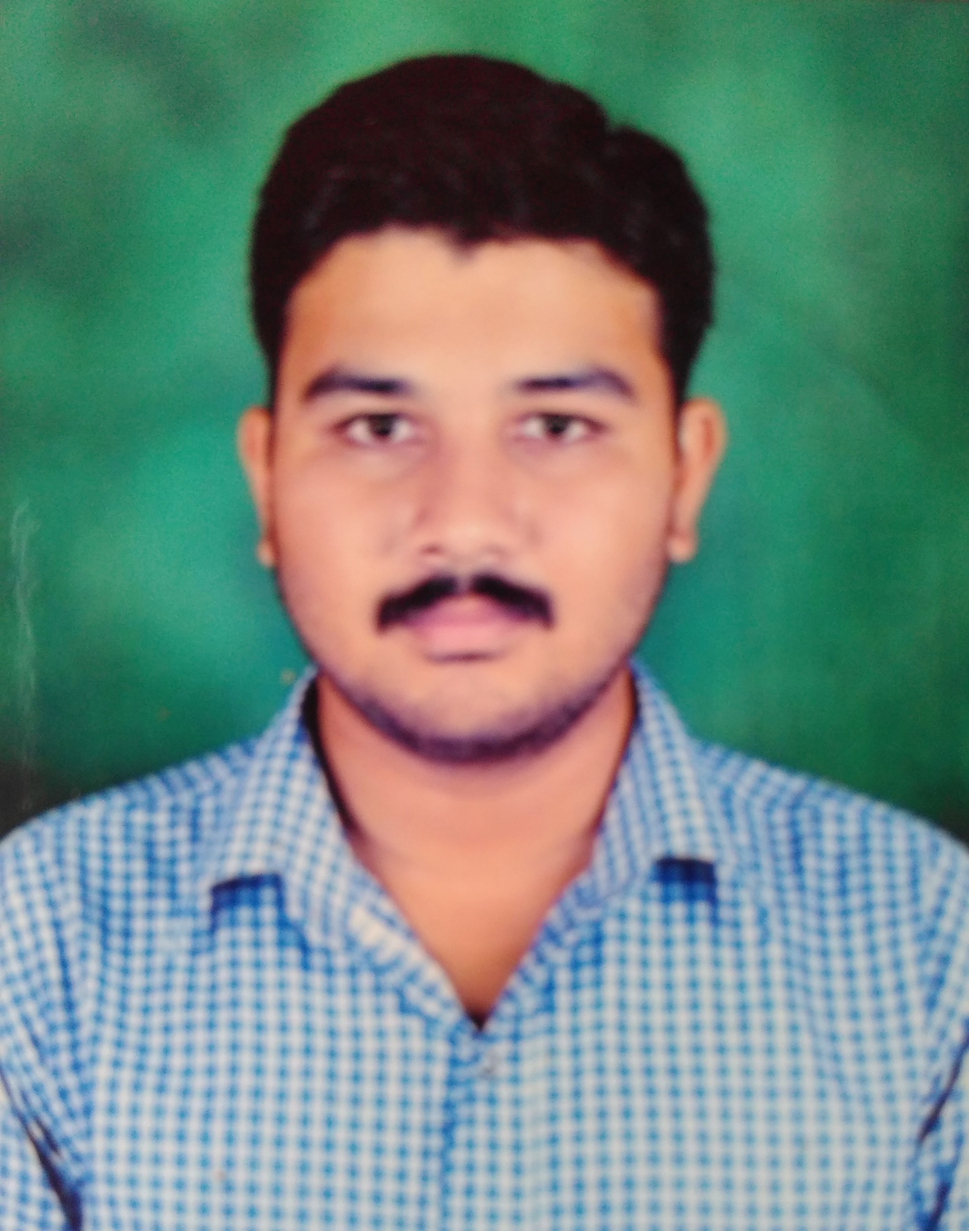
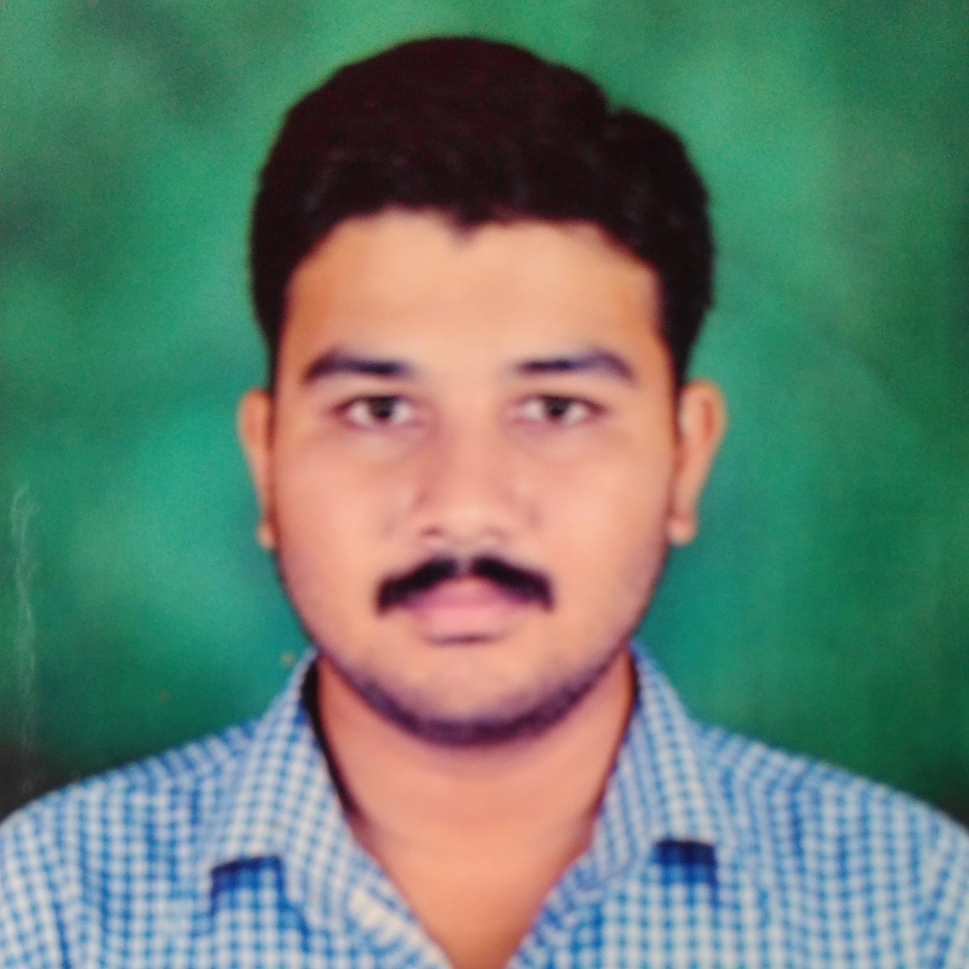
edit

diff --git a/index.html b/index.html
@@ -10,7 +10,7 @@
 <body>
   <table cellspacing=20 cellpadding=5>
     <tr>
-      <td><img height=320 width=240 src="asset/photo.jpg" /></td>
+      <td><img height=320 width=320 src="asset/photo.jpg" /></td>
       <td><h2>Suyog Mule</h2><br>
       <h3><em>student at <strong>St. Francis Institite Of Technology, Borivali</strong><br>Linux enthusiast</em></h3></td>
     </tr>

diff --git a/css/style.css b/css/style.css
@@ -1,7 +1,9 @@
 body {
   background-color: #e3fdfd;
 }
-
+img {
+  border-radius: 100%;
+}
 hr {
   border-color: gray;
   border-style: none;
